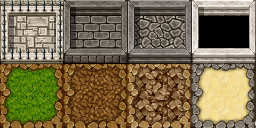
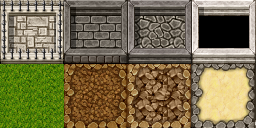
добавлена анимация движения Player и подправлен tile травы

Changed region(s): [[0.0, 0.5, 0.25, 1.0]]

diff --git a/src/entity/Player.java b/src/entity/Player.java
@@ -13,6 +13,8 @@ public class Player extends GameObject{
 
     boolean AnimFlag = false;
 
+    int counter = 0;
+
     int width, height;
     BufferedImage image;
 
@@ -130,15 +132,25 @@ public class Player extends GameObject{
 
     @Override
     public void render(Graphics g) {
+
+        counter++;
+        if (counter == 30) counter = 0;
+        int m = (int)counter/10;
+
+        int ypos = 0;
         if (game.keyManager.isRight)
-            g.drawImage(image.getSubimage(0,96,48,48),x-game.offsetX,y-game.offsetY,width,height,null);
-        else
-        if (game.keyManager.isLeft)
-            g.drawImage(image.getSubimage(0,48,48,48),x-game.offsetX,y-game.offsetY,width,height,null);
-        else
-        if (game.keyManager.isUP)
-            g.drawImage(image.getSubimage(0,144,48,48),x-game.offsetX,y-game.offsetY,width,height,null);
-        else //default
-        g.drawImage(image.getSubimage(48,0,48,48),x-game.offsetX,y-game.offsetY,width,height,null);
+            ypos = 96;
+        else if (game.keyManager.isLeft)
+            ypos = 48;
+        else if (game.keyManager.isUP)
+            ypos = 144;
+
+        if (m == 0)
+            g.drawImage(image.getSubimage(0, ypos, 48, 48), x - game.offsetX, y - game.offsetY, width, height, null);
+        else if (m == 1)
+            g.drawImage(image.getSubimage(48, ypos, 48, 48), x - game.offsetX, y - game.offsetY, width, height, null);
+        else if (m == 2)
+            g.drawImage(image.getSubimage(96, ypos, 48, 48), x - game.offsetX, y - game.offsetY, width, height, null);
+
     }
 }
